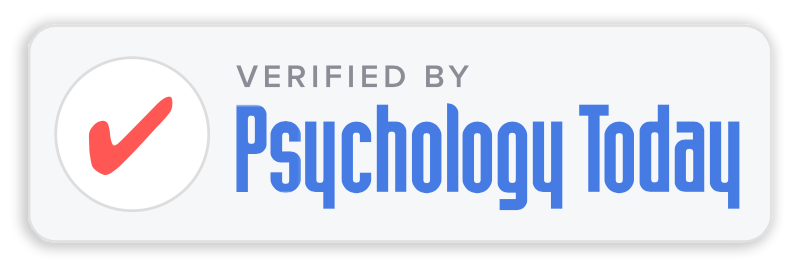
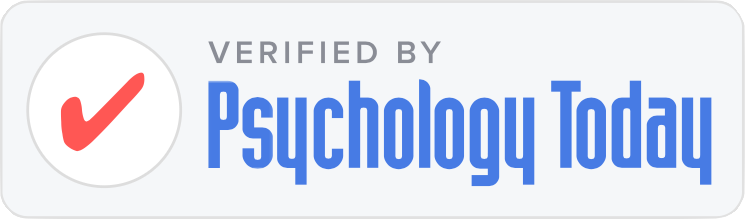
Added badges to footer

diff --git a/css/home.css b/css/home.css
@@ -38,7 +38,7 @@
   margin-top: 1.7rem;
 }
 
-/* ---- Office photo / trust row ---- */
+/* ---- Office photo ---- */
 .hero-photo-section {
   background: var(--color-paper);
   padding: 2rem 0 0;
@@ -54,51 +54,6 @@
 .hero-figure img {
   width: 100%;
   height: auto;
-}
-
-.trust-row {
-  display: flex;
-  align-items: center;
-  justify-content: center;
-  gap: 1.4rem;
-  padding: 1.2rem 0 0.35rem;
-}
-
-.trust-item {
-  display: inline-flex;
-  align-items: baseline;
-  gap: 0.45rem;
-}
-
-.trust-label {
-  color: var(--color-ink-soft);
-  font-size: 0.78rem;
-  letter-spacing: 0.04em;
-  text-transform: uppercase;
-}
-
-.trust-link {
-  color: var(--color-terracotta);
-  font-weight: 700;
-  font-size: var(--step--1);
-  display: inline-flex;
-  align-items: center;
-}
-
-.trust-link:hover {
-  color: var(--color-terracotta-deep);
-}
-
-.trust-badge {
-  display: block;
-  width: auto;
-  height: 2.5rem;
-}
-
-.trust-divider {
-  width: 1px;
-  height: 1.4rem;
-  background: var(--color-line);
 }
 
 /* ---- Intro / About teaser ---- */
@@ -281,18 +236,4 @@
     padding-top: 1rem;
   }
 
-  .trust-row {
-    gap: 0.8rem;
-    flex-wrap: wrap;
-    padding-top: 1rem;
-  }
-
-  .trust-item {
-    flex-wrap: wrap;
-    justify-content: center;
-  }
-
-  .trust-divider {
-    display: none;
-  }
 }

diff --git a/css/base.css b/css/base.css
@@ -73,6 +73,69 @@ p + p {
   padding: 0 1.75rem;
 }
 
+/* Directory badges */
+.trust-row {
+  display: flex;
+  align-items: center;
+  justify-content: center;
+  gap: 1.4rem;
+  padding: 1.2rem 0 0.35rem;
+}
+
+.trust-item {
+  display: inline-flex;
+  align-items: baseline;
+  gap: 0.45rem;
+}
+
+.trust-label {
+  color: var(--color-ink-soft);
+  font-size: 0.78rem;
+  letter-spacing: 0.04em;
+  text-transform: uppercase;
+}
+
+.trust-link {
+  color: var(--color-terracotta);
+  font-weight: 700;
+  font-size: var(--step--1);
+  display: inline-flex;
+  align-items: center;
+}
+
+.trust-link:hover {
+  color: var(--color-terracotta-deep);
+}
+
+.trust-badge {
+  display: block;
+  width: auto;
+  height: 2.5rem;
+}
+
+.trust-divider {
+  width: 1px;
+  height: 1.4rem;
+  background: var(--color-line);
+}
+
+@media (max-width: 560px) {
+  .trust-row {
+    gap: 0.8rem;
+    flex-wrap: wrap;
+    padding-top: 1rem;
+  }
+
+  .trust-item {
+    flex-wrap: wrap;
+    justify-content: center;
+  }
+
+  .trust-divider {
+    display: none;
+  }
+}
+
 /* Reduced motion respect */
 @media (prefers-reduced-motion: reduce) {
   html { scroll-behavior: auto; }

diff --git a/aboutme.html b/aboutme.html
@@ -151,9 +151,14 @@
 
   <footer class="site-footer">
     <div class="footer-inner">
-      <div>
-        <div class="footer-brand">Jen Handler, JD, LCSW</div>
-        <p class="footer-tagline">Psychodynamic psychotherapy and contemporary psychoanalysis for individuals and couples in New York City and Connecticut.</p>
+      <div class="trust-row" aria-label="Professional directory affiliations">
+        <div class="trust-item">
+          <a href="https://zencare.co/provider/therapist/jen-handler" class="trust-link"><img src="images/zencare-badge.png" alt="Zencare" class="trust-badge" /></a>
+        </div>
+        <div class="trust-divider" aria-hidden="true"></div>
+        <div class="trust-item">
+          <a href="https://www.psychologytoday.com/profile/422737" class="trust-link"><img src="images/psych-today-badge.png" alt="Psychology Today" class="trust-badge" /></a>
+        </div>
       </div>
       <div>
         <div class="footer-heading">Explore</div>

diff --git a/approach.html b/approach.html
@@ -131,9 +131,14 @@
 
   <footer class="site-footer">
     <div class="footer-inner">
-      <div>
-        <div class="footer-brand">Jen Handler, JD, LCSW</div>
-        <p class="footer-tagline">Psychodynamic psychotherapy and contemporary psychoanalysis for individuals and couples in New York City and Connecticut.</p>
+      <div class="trust-row" aria-label="Professional directory affiliations">
+        <div class="trust-item">
+          <a href="https://zencare.co/provider/therapist/jen-handler" class="trust-link"><img src="images/zencare-badge.png" alt="Zencare" class="trust-badge" /></a>
+        </div>
+        <div class="trust-divider" aria-hidden="true"></div>
+        <div class="trust-item">
+          <a href="https://www.psychologytoday.com/profile/422737" class="trust-link"><img src="images/psych-today-badge.png" alt="Psychology Today" class="trust-badge" /></a>
+        </div>
       </div>
       <div>
         <div class="footer-heading">Explore</div>

diff --git a/contact.html b/contact.html
@@ -169,9 +169,14 @@
 
   <footer class="site-footer">
     <div class="footer-inner">
-      <div>
-        <div class="footer-brand">Jen Handler, JD, LCSW</div>
-        <p class="footer-tagline">Psychodynamic psychotherapy and contemporary psychoanalysis for individuals and couples in New York City and Connecticut.</p>
+      <div class="trust-row" aria-label="Professional directory affiliations">
+        <div class="trust-item">
+          <a href="https://zencare.co/provider/therapist/jen-handler" class="trust-link"><img src="images/zencare-badge.png" alt="Zencare" class="trust-badge" /></a>
+        </div>
+        <div class="trust-divider" aria-hidden="true"></div>
+        <div class="trust-item">
+          <a href="https://www.psychologytoday.com/profile/422737" class="trust-link"><img src="images/psych-today-badge.png" alt="Psychology Today" class="trust-badge" /></a>
+        </div>
       </div>
       <div>
         <div class="footer-heading">Explore</div>

diff --git a/couples-therapy.html b/couples-therapy.html
@@ -157,9 +157,14 @@
 
   <footer class="site-footer">
     <div class="footer-inner">
-      <div>
-        <div class="footer-brand">Jen Handler, JD, LCSW</div>
-        <p class="footer-tagline">Psychodynamic psychotherapy and contemporary psychoanalysis for individuals and couples in New York City and Connecticut.</p>
+      <div class="trust-row" aria-label="Professional directory affiliations">
+        <div class="trust-item">
+          <a href="https://zencare.co/provider/therapist/jen-handler" class="trust-link"><img src="images/zencare-badge.png" alt="Zencare" class="trust-badge" /></a>
+        </div>
+        <div class="trust-divider" aria-hidden="true"></div>
+        <div class="trust-item">
+          <a href="https://www.psychologytoday.com/profile/422737" class="trust-link"><img src="images/psych-today-badge.png" alt="Psychology Today" class="trust-badge" /></a>
+        </div>
       </div>
       <div>
         <div class="footer-heading">Explore</div>

diff --git a/index.html b/index.html
@@ -250,9 +250,14 @@
 
   <footer class="site-footer">
     <div class="footer-inner">
-      <div>
-        <div class="footer-brand">Jen Handler, JD, LCSW</div>
-        <p class="footer-tagline">Psychodynamic psychotherapy and contemporary psychoanalysis for individuals and couples in New York City and Connecticut.</p>
+      <div class="trust-row" aria-label="Professional directory affiliations">
+        <div class="trust-item">
+          <a href="https://zencare.co/provider/therapist/jen-handler" class="trust-link"><img src="images/zencare-badge.png" alt="Zencare" class="trust-badge" /></a>
+        </div>
+        <div class="trust-divider" aria-hidden="true"></div>
+        <div class="trust-item">
+          <a href="https://www.psychologytoday.com/profile/422737" class="trust-link"><img src="images/psych-today-badge.png" alt="Psychology Today" class="trust-badge" /></a>
+        </div>
       </div>
       <div>
         <div class="footer-heading">Explore</div>

diff --git a/individual-therapy.html b/individual-therapy.html
@@ -158,9 +158,14 @@
 
   <footer class="site-footer">
     <div class="footer-inner">
-      <div>
-        <div class="footer-brand">Jen Handler, JD, LCSW</div>
-        <p class="footer-tagline">Psychodynamic psychotherapy and contemporary psychoanalysis for individuals and couples in New York City and Connecticut.</p>
+      <div class="trust-row" aria-label="Professional directory affiliations">
+        <div class="trust-item">
+          <a href="https://zencare.co/provider/therapist/jen-handler" class="trust-link"><img src="images/zencare-badge.png" alt="Zencare" class="trust-badge" /></a>
+        </div>
+        <div class="trust-divider" aria-hidden="true"></div>
+        <div class="trust-item">
+          <a href="https://www.psychologytoday.com/profile/422737" class="trust-link"><img src="images/psych-today-badge.png" alt="Psychology Today" class="trust-badge" /></a>
+        </div>
       </div>
       <div>
         <div class="footer-heading">Explore</div>

diff --git a/supervision.html b/supervision.html
@@ -145,9 +145,14 @@
 
   <footer class="site-footer">
     <div class="footer-inner">
-      <div>
-        <div class="footer-brand">Jen Handler, JD, LCSW</div>
-        <p class="footer-tagline">Psychodynamic psychotherapy and contemporary psychoanalysis for individuals and couples in New York City and Connecticut.</p>
+      <div class="trust-row" aria-label="Professional directory affiliations">
+        <div class="trust-item">
+          <a href="https://zencare.co/provider/therapist/jen-handler" class="trust-link"><img src="images/zencare-badge.png" alt="Zencare" class="trust-badge" /></a>
+        </div>
+        <div class="trust-divider" aria-hidden="true"></div>
+        <div class="trust-item">
+          <a href="https://www.psychologytoday.com/profile/422737" class="trust-link"><img src="images/psych-today-badge.png" alt="Psychology Today" class="trust-badge" /></a>
+        </div>
       </div>
       <div>
         <div class="footer-heading">Explore</div>

diff --git a/therapy-for-lawyers-professionals.html b/therapy-for-lawyers-professionals.html
@@ -147,9 +147,14 @@
 
   <footer class="site-footer">
     <div class="footer-inner">
-      <div>
-        <div class="footer-brand">Jen Handler, JD, LCSW</div>
-        <p class="footer-tagline">Psychodynamic psychotherapy and contemporary psychoanalysis for individuals and couples in New York City and Connecticut.</p>
+      <div class="trust-row" aria-label="Professional directory affiliations">
+        <div class="trust-item">
+          <a href="https://zencare.co/provider/therapist/jen-handler" class="trust-link"><img src="images/zencare-badge.png" alt="Zencare" class="trust-badge" /></a>
+        </div>
+        <div class="trust-divider" aria-hidden="true"></div>
+        <div class="trust-item">
+          <a href="https://www.psychologytoday.com/profile/422737" class="trust-link"><img src="images/psych-today-badge.png" alt="Psychology Today" class="trust-badge" /></a>
+        </div>
       </div>
       <div>
         <div class="footer-heading">Explore</div>

diff --git a/css/footer.css b/css/footer.css
@@ -17,6 +17,25 @@
   gap: 2.5rem;
 }
 
+@media (min-width: 761px) {
+  .site-footer .trust-row {
+    flex-direction: column;
+    align-items: center;
+    justify-content: center;
+    gap: 2.0rem;
+    padding: 0;
+    padding-right: 30%;
+  }
+
+  .site-footer .trust-badge {
+    height: 4rem;
+  }
+
+  .site-footer .trust-divider {
+    display: none;
+  }
+}
+
 .footer-brand {
   font-family: var(--font-display);
   font-size: 1.25rem;
